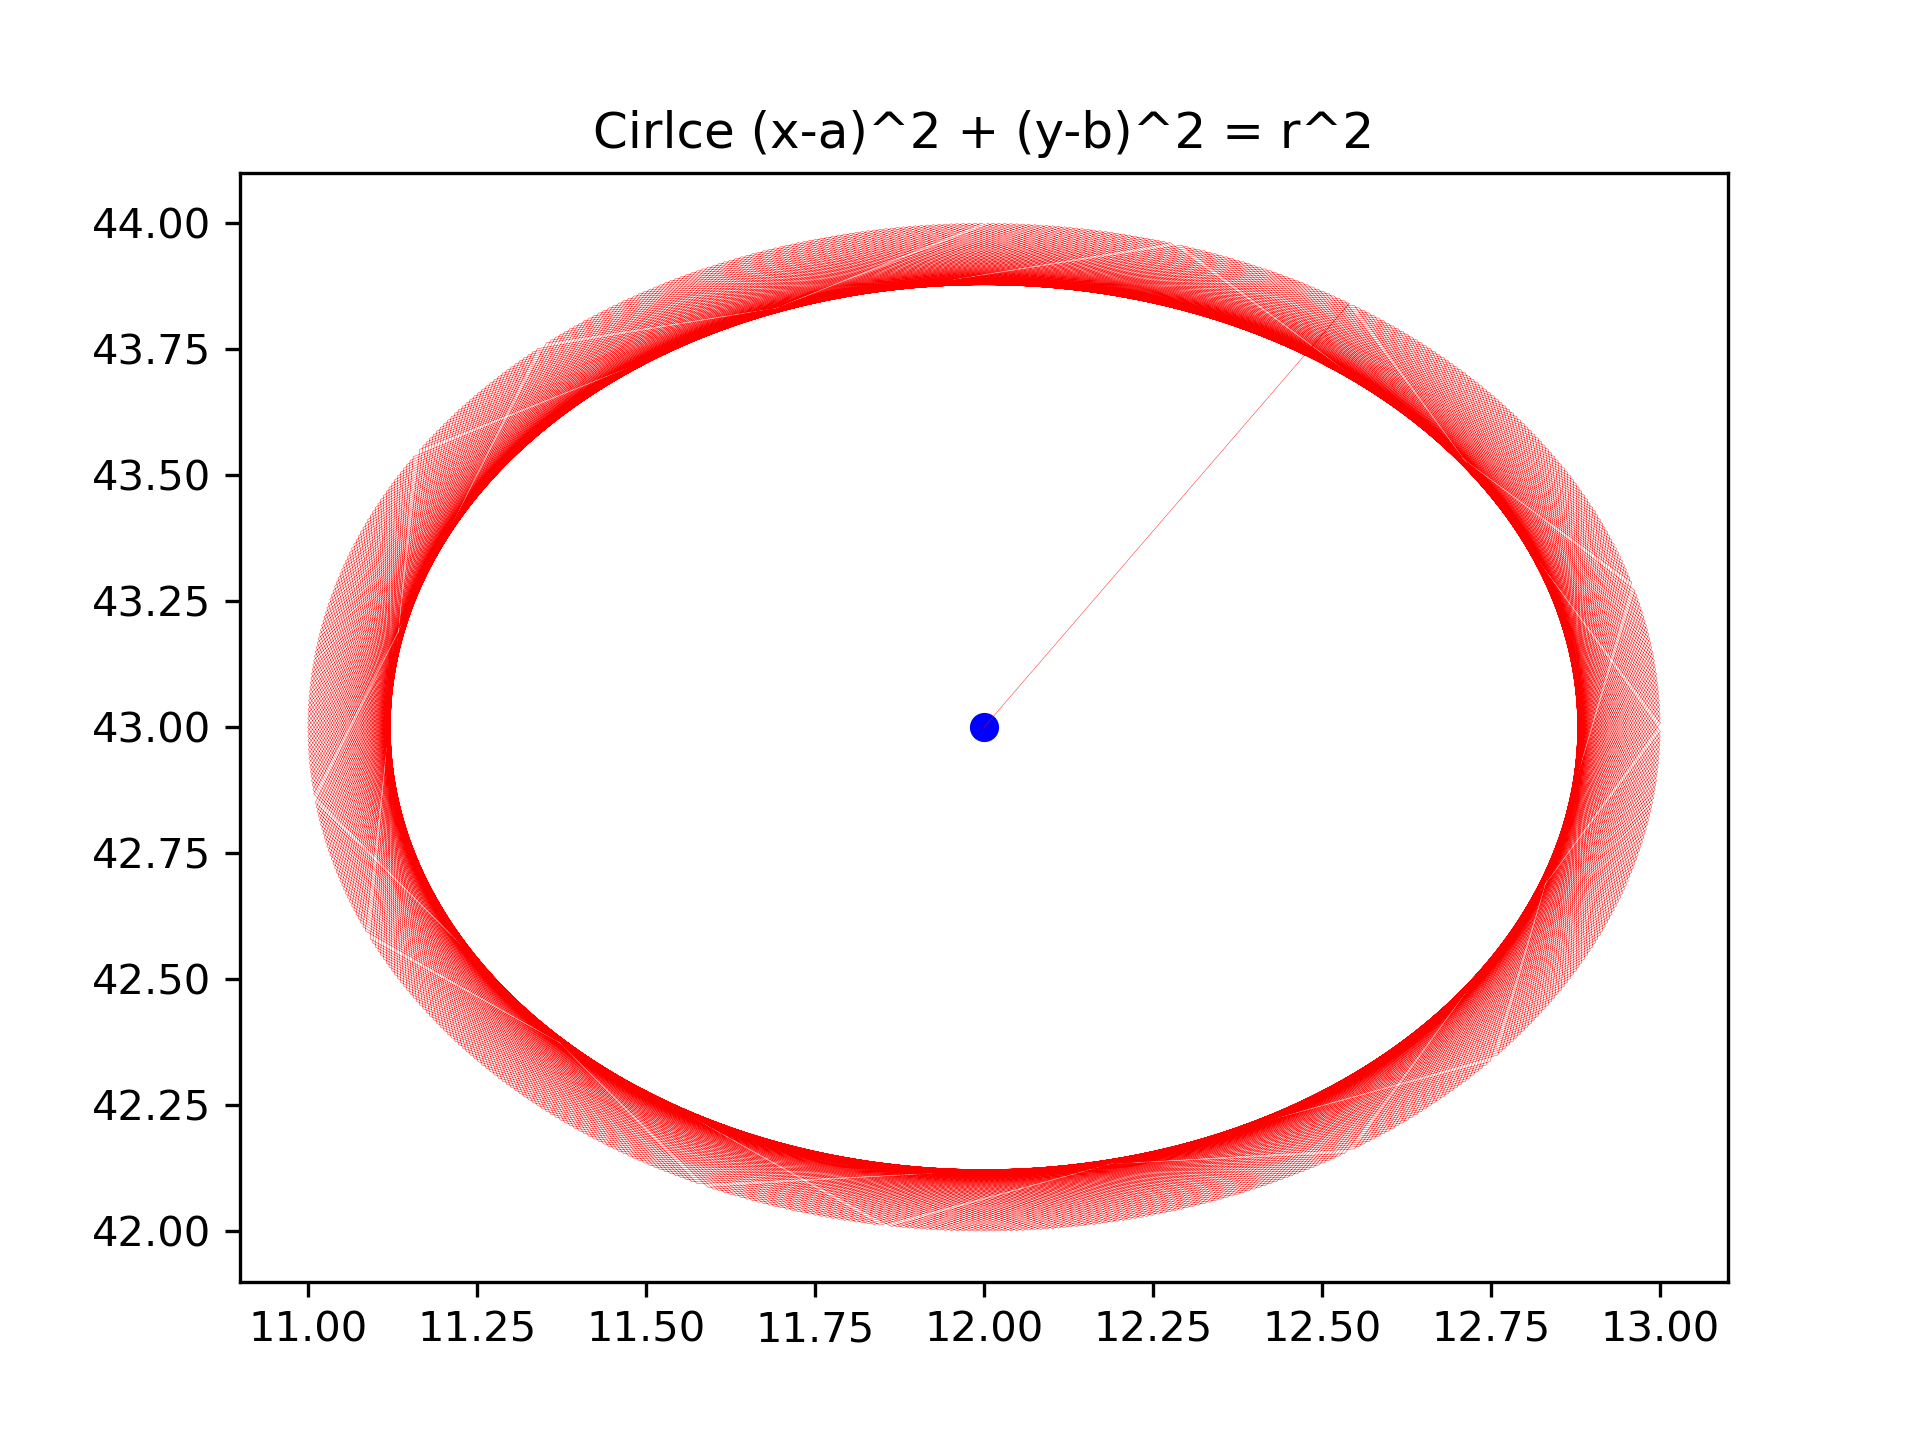
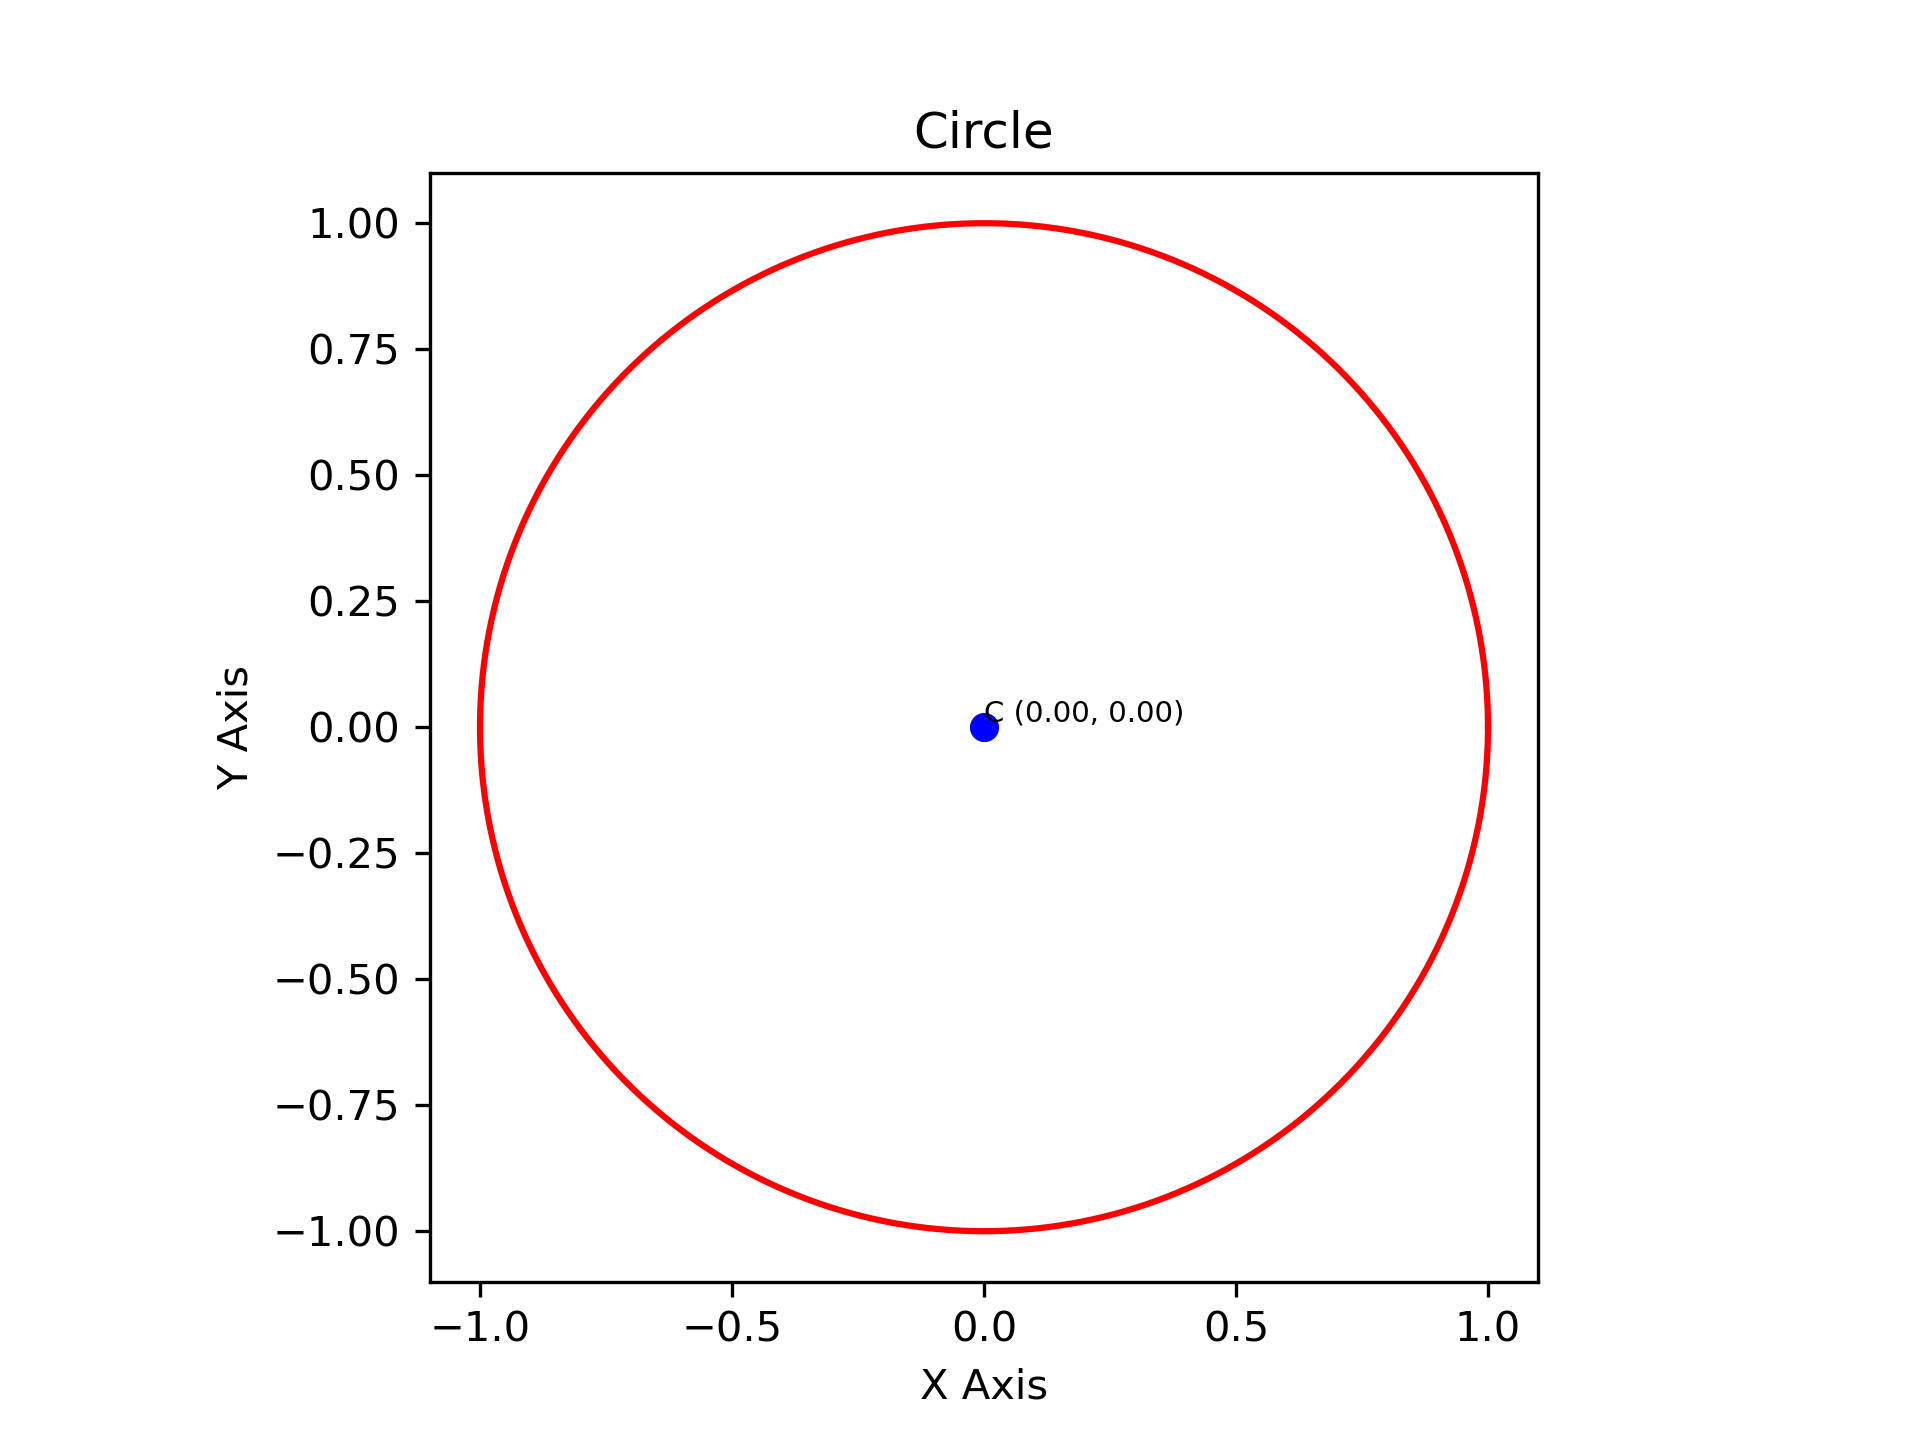
Update

diff --git a/Python/Question/1/main.py b/Python/Question/1/main.py
@@ -1,0 +1,73 @@
+#CODE BY BHAVESH G
+
+
+import numpy as np
+import matplotlib.pyplot as plt
+
+print("Consider the equation of Parabola as: \t y^2 = 4ax\n ")
+print("Consider the equation of Circle as: \t (x-h)^2 + (y-k)^2 = r^2\n")
+print("Considering the equation of Line as: \t y = mx +c\n")
+
+a = float(input("Enter value of a:"))
+h= float(input("Enter value of h:"))
+k= float(input("Enter value of k:"))
+r_2 = abs(float(input("Enter value of r^2:")))
+
+r = np.sqrt(r_2)
+
+#Mathematical conditions for parabola
+t1 = np.linspace(0, 5, 100)
+x_p = a*t1*t1
+y_p1 = 2*a*t1
+y_p2= -2*a*t1
+F_x = a
+
+#Mathematical conditions for Circle
+t2 = np.linspace(0, 2*np.pi, 1000)
+x_c = h + r*np.cos(t2)
+y_c = k + r*np.sin(t2)
+
+#Mathematical conditions for Line
+m1 = float((k*(h-a) + r*np.sqrt((h-a)*(h-a) + k*k - r*r))/((h-a)*(h-a) - r*r))
+m2 = float((k*(h-a) - r*np.sqrt((h-a)*(h-a) + k*k - r*r))/((h-a)*(h-a) - r*r))
+c1 = -m1*a
+c2 = -m2*a
+x_l = np.linspace(-10, 100, 100)
+y_l1 = m1*x_l + c1
+y_l2 = m2*x_l + c2
+
+
+fig, ax = plt.subplots()
+
+#Labelling
+ax.set_title("Solution Image")
+ax.set_xlabel("X Axis")
+ax.set_ylabel("Y Axis")
+
+#Plotting Conics and Lines
+ax.plot(x_p, y_p1, c="r", label="Parabola")
+ax.plot(x_p, y_p2, c="r")
+ax.plot(x_c, y_c, c="g", label="Circle")
+ax.plot(x_l, y_l1, c="#000", ls="--", label="Line-1")
+ax.plot(x_l, y_l2, c="#964B00", ls="--", label="Line-2")
+
+#Plotting and Labelling Focus
+ax.scatter(F_x,0, c="b", zorder=5, s=20, edgecolor="k", label="Focus")
+ax.text(F_x-0.1, -0.6, "F", fontsize=10, fontweight="bold")
+
+#Anonymous Atributes
+ax.legend(loc="best")
+ax.set_aspect("equal")
+ax.grid(True)
+
+#Adjusting Axises
+ax.set_xlim(-2,h+r+5)
+ax.set_ylim(-5, k+r+5)
+
+#Saving Figure
+plt.savefig("figure.png", dpi=400)
+
+#Printing Line Equations
+print("\n\nThe Equations of line are:\n")
+print("y="+ str(m1) + "x +("+ str(c1)+ ")\n")
+print("y="+ str(m2) +"x +"+ str(c2))

diff --git a/Python/Conic Plots/circle.py b/Python/Conic Plots/circle.py
@@ -1,21 +1,29 @@
 #CODE BY BHAVESH G
 
+import numpy as np
 import matplotlib.pyplot as plt
-import math
 
-X_0 = float(input("Enter the X-coordinate of Center:"))
-Y_0 = float(input("Enter the Y-coordinate of Center:"))
-R = abs(float(input("Enter the radius of the Circle:")))
 
-X = [X_0]
-Y = [Y_0]
+x_0 = float(input("Enter the X-coordinate of the circle:"))
+y_0 = float(input("Enter the Y-coordinate of the circle:"))
+R = float(input("Enter the radius of the circle:"))
 
-for i in range(1,700):
-    X.append(X_0 + R*math.cos(i))
-    Y.append(Y_0 + R*math.sin(i)) 
+t = np.linspace(0,2*np.pi, 2000)
 
-plt.plot(X,Y, c="r", lw=0.1)
-plt.scatter(X_0, Y_0, c="b")
-plt.title("Cirlce (x-a)^2 + (y-b)^2 = r^2")
-plt.savefig("figs/circle", dpi=300)
+x = x_0 + R*np.cos(t)
+y = y_0 + R*np.sin(t)
+
+
+fig, ax = plt.subplots()
+
+ax.plot(x,y, c="r")
+
+ax.set_title("Circle")
+ax.set_xlabel("X Axis")
+ax.set_ylabel("Y Axis")
+ax.set_aspect("equal")
+ax.scatter(x_0,y_0, c="b")
+ax.text(x_0, y_0, f'C ({x_0:.2f}, {y_0:.2f})', ha='left', va='bottom', fontsize=7)
+plt.savefig("figs/circle.png", dpi=300)
 plt.show()
+

diff --git a/Python/sin_cos.py b/Python/sin_cos.py
@@ -1,0 +1,41 @@
+#CODE BY BHAVESH G
+
+import numpy as np
+import matplotlib.pyplot as plt
+
+#Setting Mathematical Foundation
+x = np.linspace(0,2*np.pi, 10000)
+y1 = np.sin(x) 
+y2 = np.cos(x)
+
+x_ticks = np.arange(0, 2*np.pi, np.pi/4)
+
+fig, ax = plt.subplots()
+
+#Labeling Axises and Setting a Title
+ax.set_title("Sine and Cosine Graph")
+ax.set_xlabel("X Axis")
+ax.set_ylabel("Y Axis")
+
+#Plotting sine and cosine graphs
+ax.plot(x, y1, c="r", label = "y = sin(x)")
+ax.plot(x, y2, c="b", label = "y = cos(x)")
+
+#Adding Legend
+ax.legend()
+
+ax.set_aspect("equal")
+
+#Adjusting the Axises
+ax.set_xticks(x_ticks)
+ax.set_xlim(-0.1, 2*np.pi+0.1)
+ax.set_ylim(-1.1, 1.1)
+ax.grid(True)
+
+#Showing Point of Intersecting between graphs
+ax.scatter(np.pi/4, 1/np.power(2, 1/2), c="g", zorder=5)
+ax.scatter(5*np.pi/4, -1/np.power(2, 1/2), c="g", zorder=5)
+
+
+plt.show()
+

diff --git a/Python/curve2.py b/Python/curve2.py
@@ -1,0 +1,37 @@
+#CODE BY BHAVESH G
+
+import numpy as np
+import matplotlib.pyplot as plt
+
+#Setting Mathematical Conditions
+t = np.linspace(0,2*np.pi, 10000)
+x = np.sin(3*t + np.pi/4)
+y = np.sin(2*t)
+
+
+fig, ax = plt.subplots()
+
+#Plotting the Curve
+ax.plot(x,y, c="r", label="Curve")
+
+#Adding Labels
+ax.set_title("Lissajous curve")
+ax.set_xlabel("X Axis")
+ax.set_ylabel("Y Axis")
+
+#Anonymous Attributes
+ax.grid(True)
+ax.set_aspect("equal")
+
+#Adjusting the Axises
+ax.set_xticks(np.arange(-1,1.01, 0.5))
+ax.set_yticks(np.arange(-1,1.01,0.5))
+
+#Labelling Self Point of Intersection
+ax.scatter(0, -0.5, c="g", marker="8", zorder=5, edgecolor="k", s=90, label="SPOI")
+ax.text(0,-0.55, "P(0,-0.5)",  fontsize=10, fontweight="bold", ha="center", va="top")
+
+#Adding Legend
+ax.legend(loc="best")
+
+plt.show()

diff --git a/Python/curve1.py b/Python/curve1.py
@@ -1,0 +1,30 @@
+#CODE BY BHAVESH G
+
+#Plotting y^3 = ax^2
+
+import numpy as np
+import matplotlib.pyplot as plt
+
+print("Plotting y^3 = ax^2.\n\n")
+
+a = float(input("Enter the Value of a:"))
+
+t = np.linspace(-10000, 10000, 99999)
+
+# Parametric Coordinates: y= (t^2)a^(1/3) & x = t^3
+
+y = np.power(a, 1/3)*abs(t*t)
+x = np.power(t, 3)
+
+fig, ax = plt.subplots()
+ax.plot(x,y, c="r", ls="--")
+ax.set_title("y^3 = ax^2")
+ax.scatter(0,0, c="b", marker="*")
+ax.set_xlim(-100*a,100*a)
+ax.set_ylim(-100*a,100*a)
+ax.set_xlabel("X Axis")
+ax.set_ylabel("Y Axis")
+ax.set_aspect("equal")
+
+plt.show()
+
